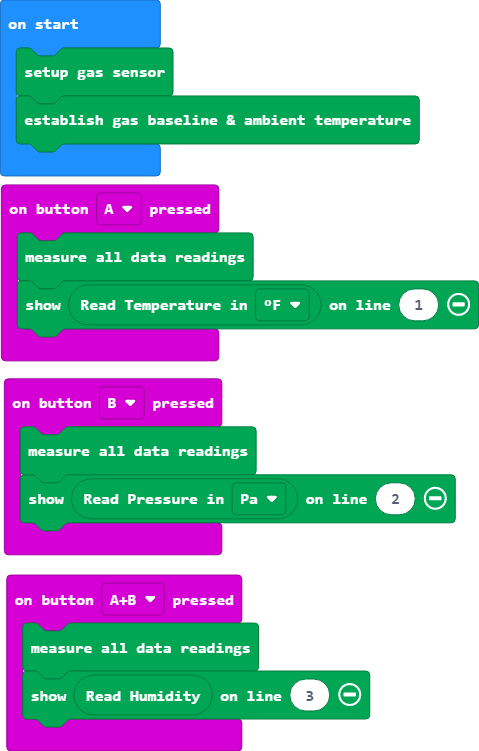
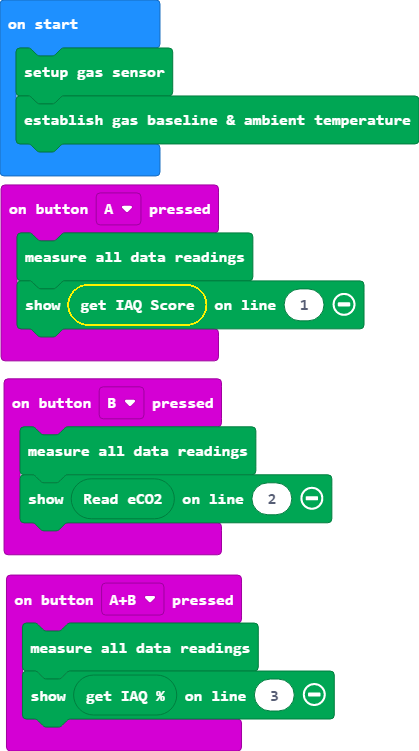
Part 1b

Changed region(s): [[0.0, 0.0, 1.0, 1.0]]

diff --git a/main.ts b/main.ts
@@ -1,14 +1,14 @@
 input.onButtonPressed(Button.A, function () {
     kitronik_air_quality.measureData()
-    kitronik_air_quality.show(kitronik_air_quality.readTemperature(kitronik_air_quality.TemperatureUnitList.F), 1)
+    kitronik_air_quality.show(kitronik_air_quality.getAirQualityScore(), 1)
 })
 input.onButtonPressed(Button.AB, function () {
     kitronik_air_quality.measureData()
-    kitronik_air_quality.show(kitronik_air_quality.readHumidity(), 3)
+    kitronik_air_quality.show(kitronik_air_quality.getAirQualityPercent(), 3)
 })
 input.onButtonPressed(Button.B, function () {
     kitronik_air_quality.measureData()
-    kitronik_air_quality.show(kitronik_air_quality.readPressure(kitronik_air_quality.PressureUnitList.Pa), 2)
+    kitronik_air_quality.show(kitronik_air_quality.readeCO2(), 2)
 })
 kitronik_air_quality.setupGasSensor()
 kitronik_air_quality.calcBaselines()
